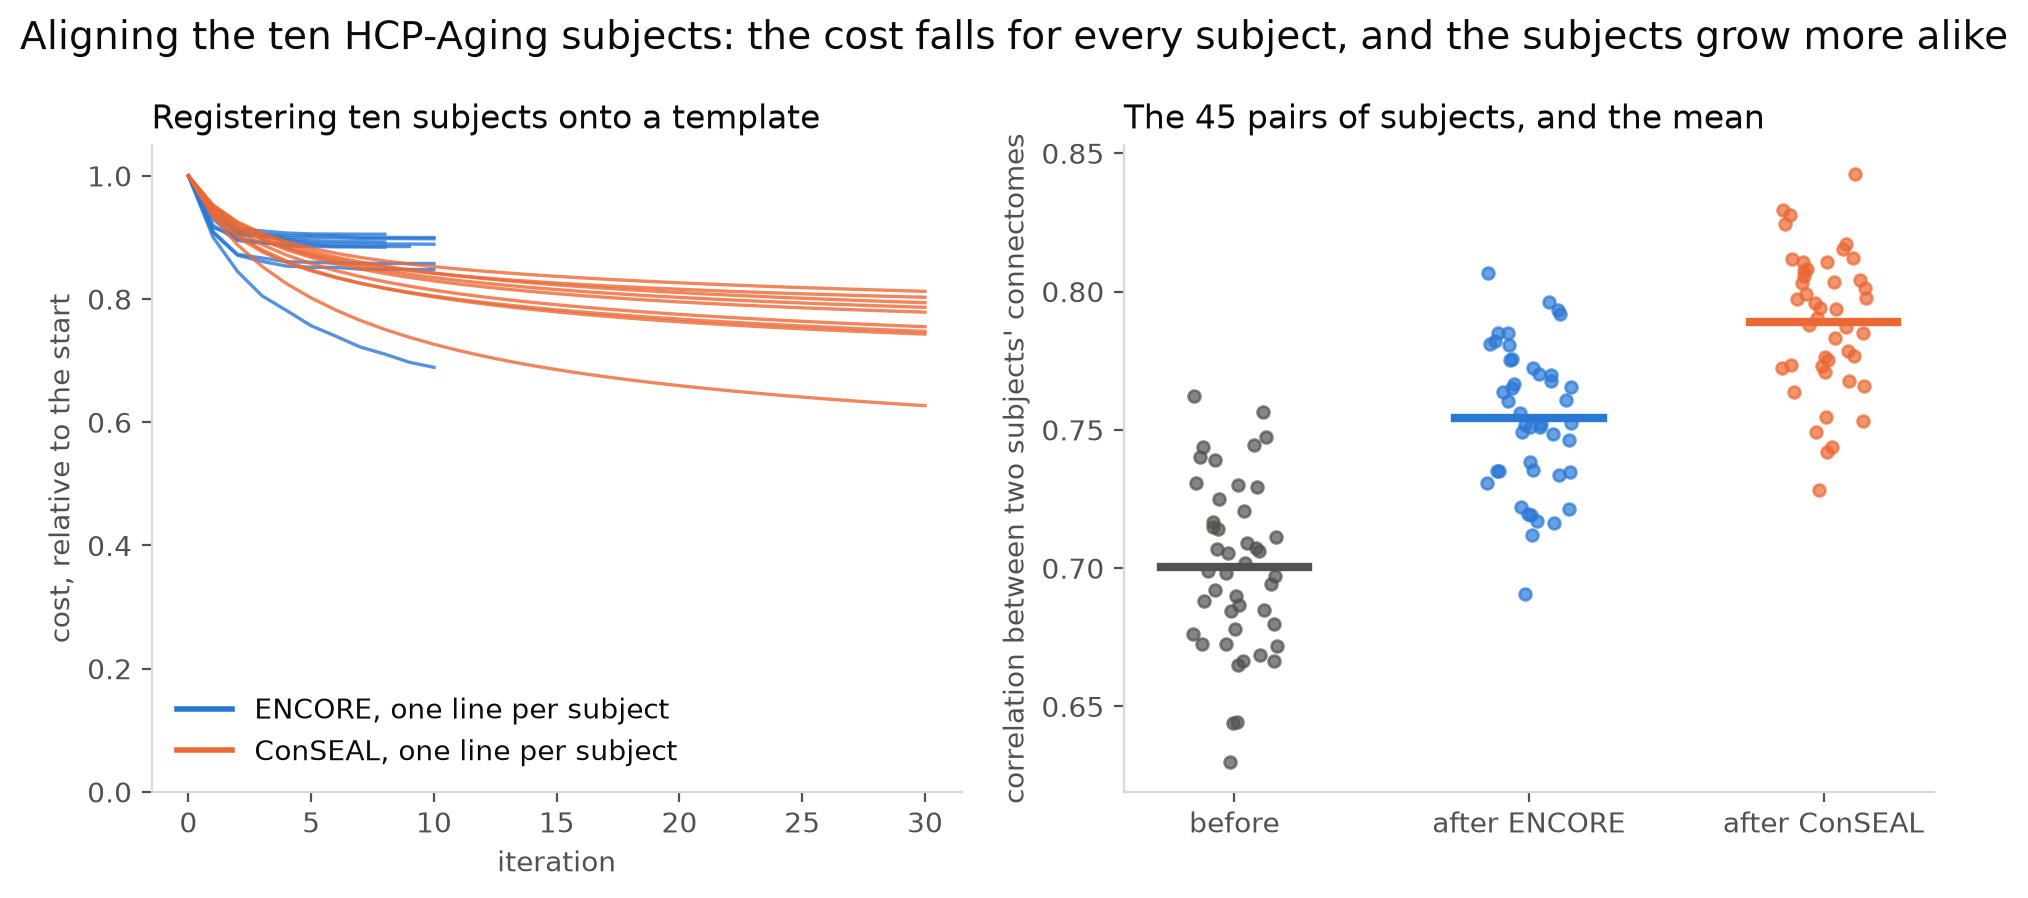
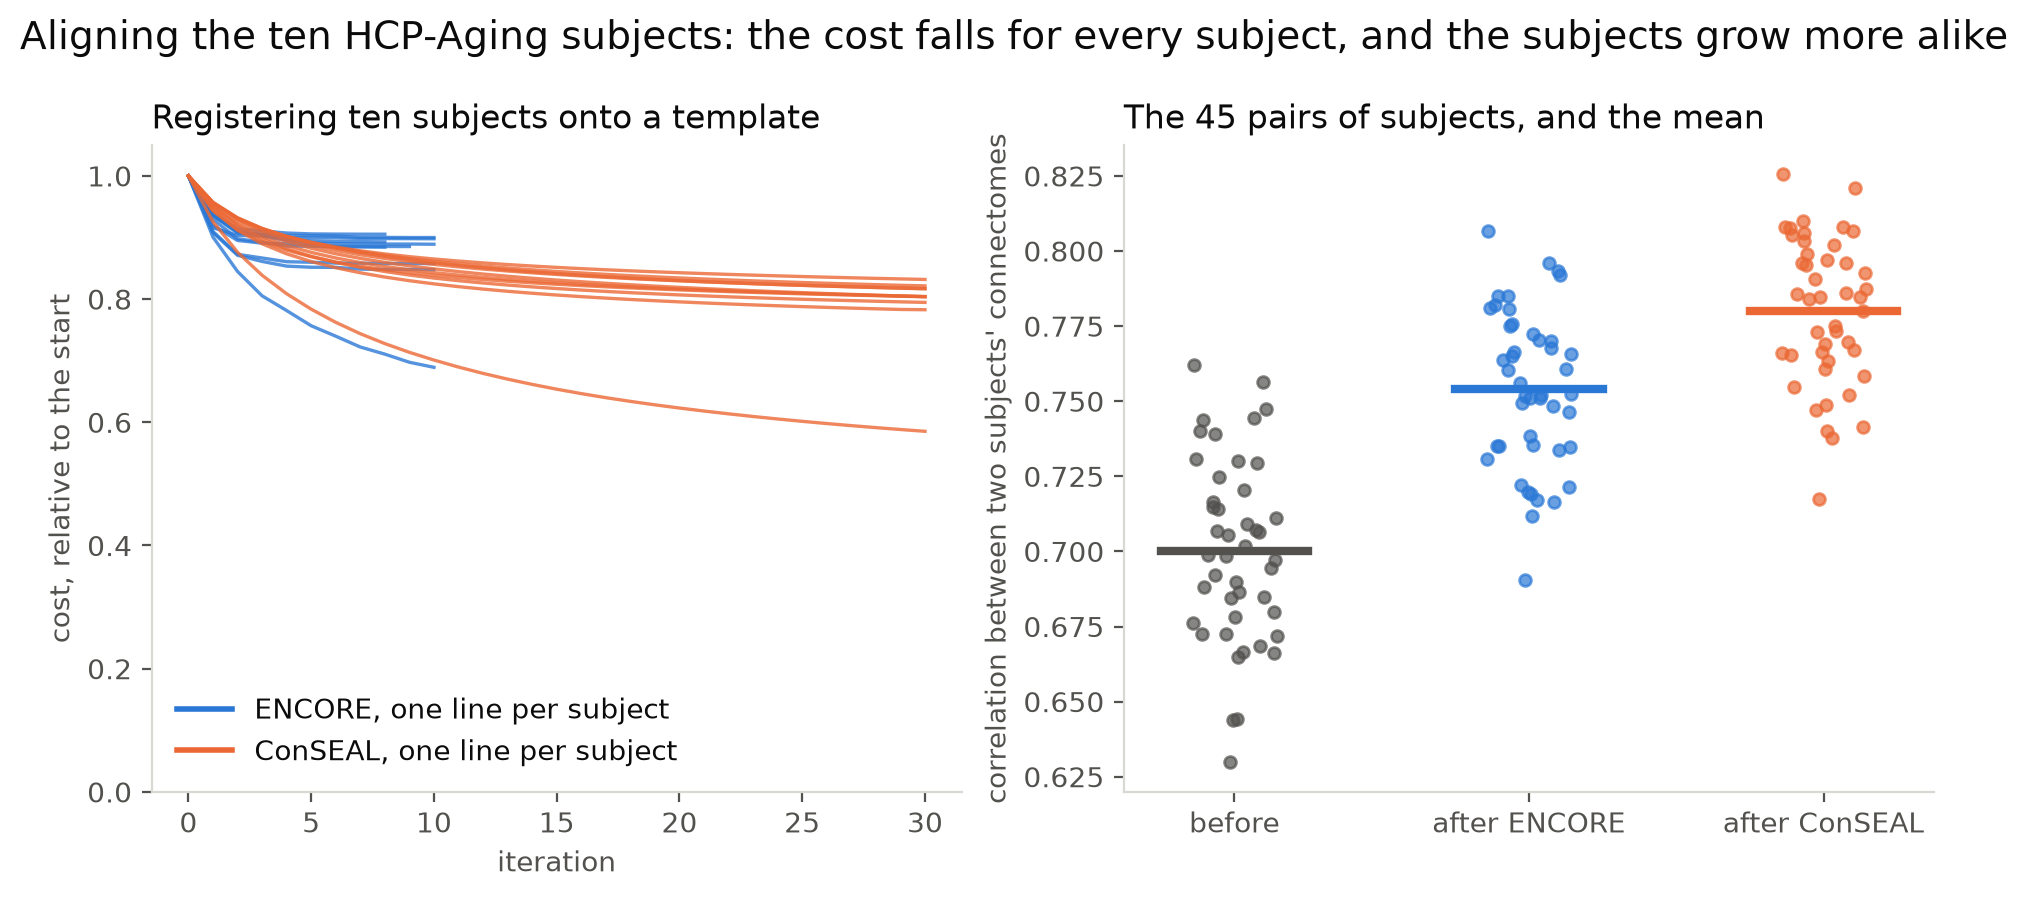
Cohort figure: ConSEAL registered onto the mean square-root density
The ten-subject alignment figure is redrawn with ConSEAL registering onto
the mean of the square-root densities, since its Karcher median settled on
one subject. Every subject now moves, as with ENCORE's template; the mean
correlation between subjects goes from 0.700 to 0.754 (ENCORE, 10
iterations) and 0.780 (ConSEAL, 30 iterations), against 0.789 onto the one
subject. README and the figure index say so.

diff --git a/README.md b/README.md
@@ -234,14 +234,16 @@ adjusted p-value of each.*
 **Aligning the ten subjects.** Registered onto a template estimated from the
 cohort, the subjects grow more alike: the mean correlation between two
 subjects' connectomes rises from 0.700 to 0.754 after ten ENCORE iterations
-and to 0.789 after thirty ConSEAL iterations, and the cost falls for every
-subject. One caveat on this run: ConSEAL's Karcher median settled on one of
-the ten subjects (its distance to that subject was 0.001 degrees, 25 to 31
-to the others), so the other nine were registered onto that subject's
-connectome, while ENCORE's median stayed clear of every subject. The USAGE
-notes explain why the median can do this and how to pass the cohort mean
-instead. Ten subjects at roughly 800,000 streamlines each take twelve
-minutes with ENCORE and under two hours with ConSEAL on four cores.
+and to 0.780 after thirty ConSEAL iterations, and the cost falls for every
+subject. ENCORE registers onto its Karcher median, which stayed clear of
+every subject. ConSEAL's median settled on one of the ten subjects (0.001
+degrees from it, 25 to 31 from the others), which would have registered the
+other nine onto that subject's connectome, so the figure registers onto the
+mean of the square-root densities instead; onto the one subject the mean
+correlation reaches 0.789, a little higher, for the wrong reason. The USAGE
+notes explain when the median does this and how to pass a template. Ten
+subjects at roughly 800,000 streamlines each take five minutes with ENCORE
+and an hour with ConSEAL on four cores.
 
 ![Aligning the ten subjects](docs/figures/cohort_alignment.png)
 

diff --git a/docs/figures/README.md b/docs/figures/README.md
@@ -32,5 +32,5 @@ the shading shows where there is nothing to see.
 | `spherical_kernel.png` | the kernel `smooth(kernel="shk")` applies, at the released bandwidth and twice it, with its cutoffs |
 | `cohort_component.png` | the FPCA component of the ten subjects most associated with age (not significantly), relative to its largest value |
 | `cohort_scores.png` | each of the four components' scores against age, with the fitted line and the adjusted p-value |
-| `cohort_alignment.png` | registering the ten subjects with ENCORE and with ConSEAL: each subject's cost per iteration, and the correlation between each pair of subjects' connectomes before and after (mean 0.700, then 0.754 after ENCORE and 0.789 after ConSEAL) |
+| `cohort_alignment.png` | registering the ten subjects with ENCORE (onto its Karcher median) and with ConSEAL (onto the mean square-root density, since its median settles on one subject): each subject's cost per iteration, and the correlation between each pair of subjects' connectomes before and after (mean 0.700, then 0.754 after ENCORE and 0.780 after ConSEAL) |
 | `alignment_recovery.png` | one subject's 903,797 endpoints moved by a known smooth warp and registered back onto the original by ENCORE and by ConSEAL: how far each endpoint still is from where it started (0.95 degrees as deformed; 0.92 after ENCORE, 0.13 after ConSEAL), and the cost per iteration |
